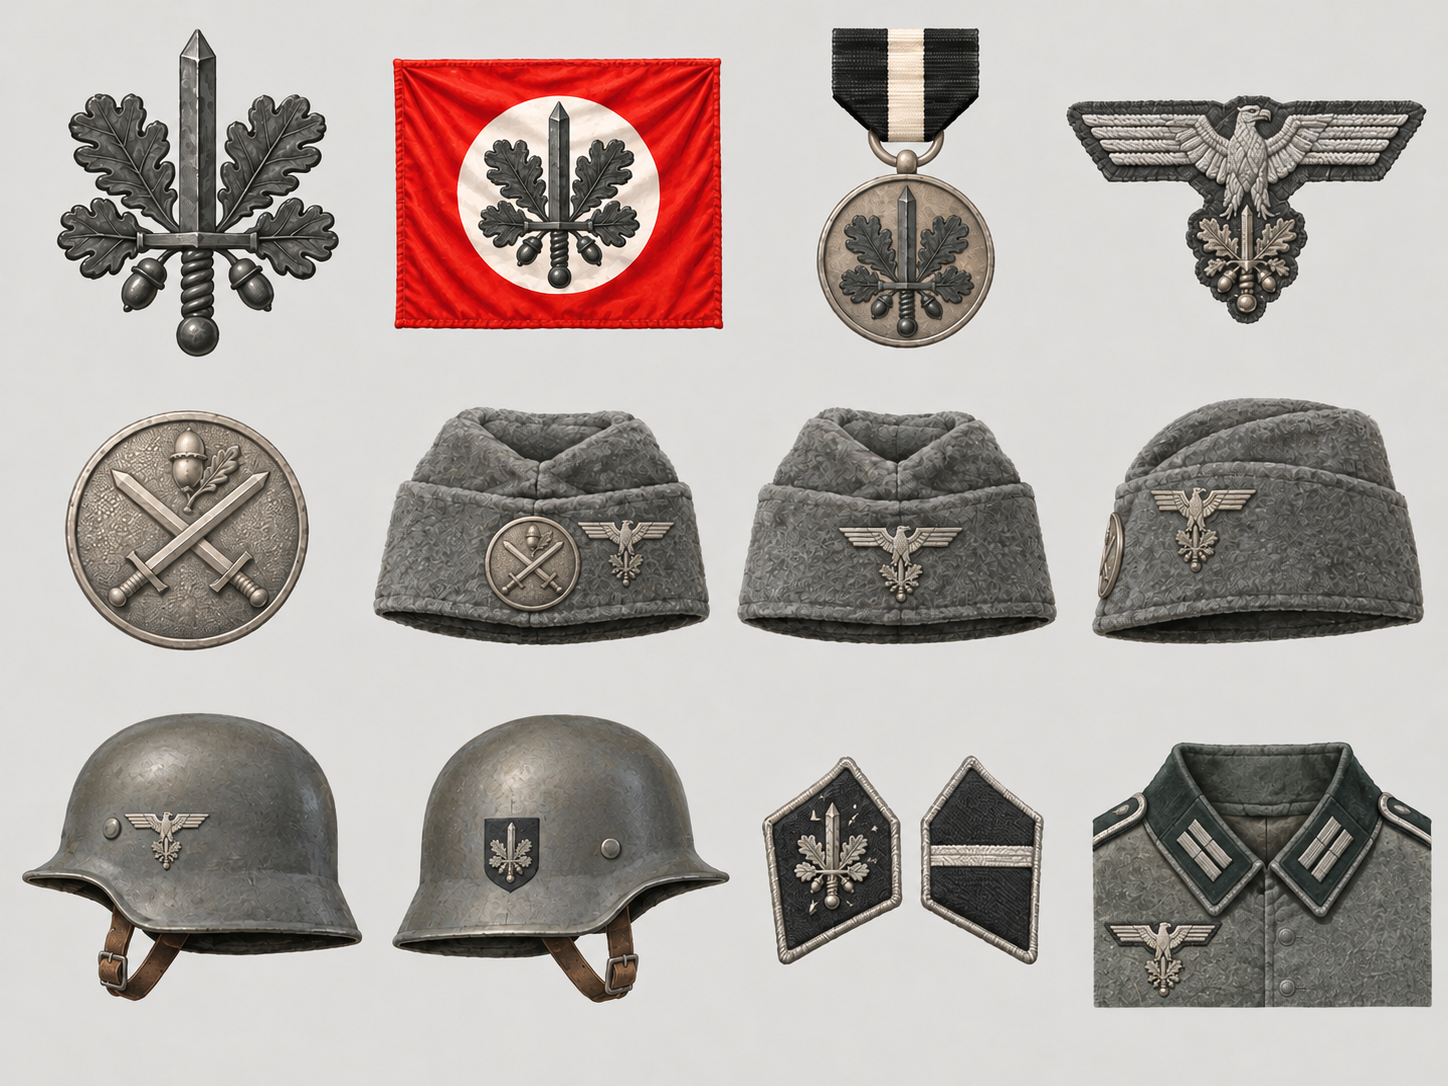
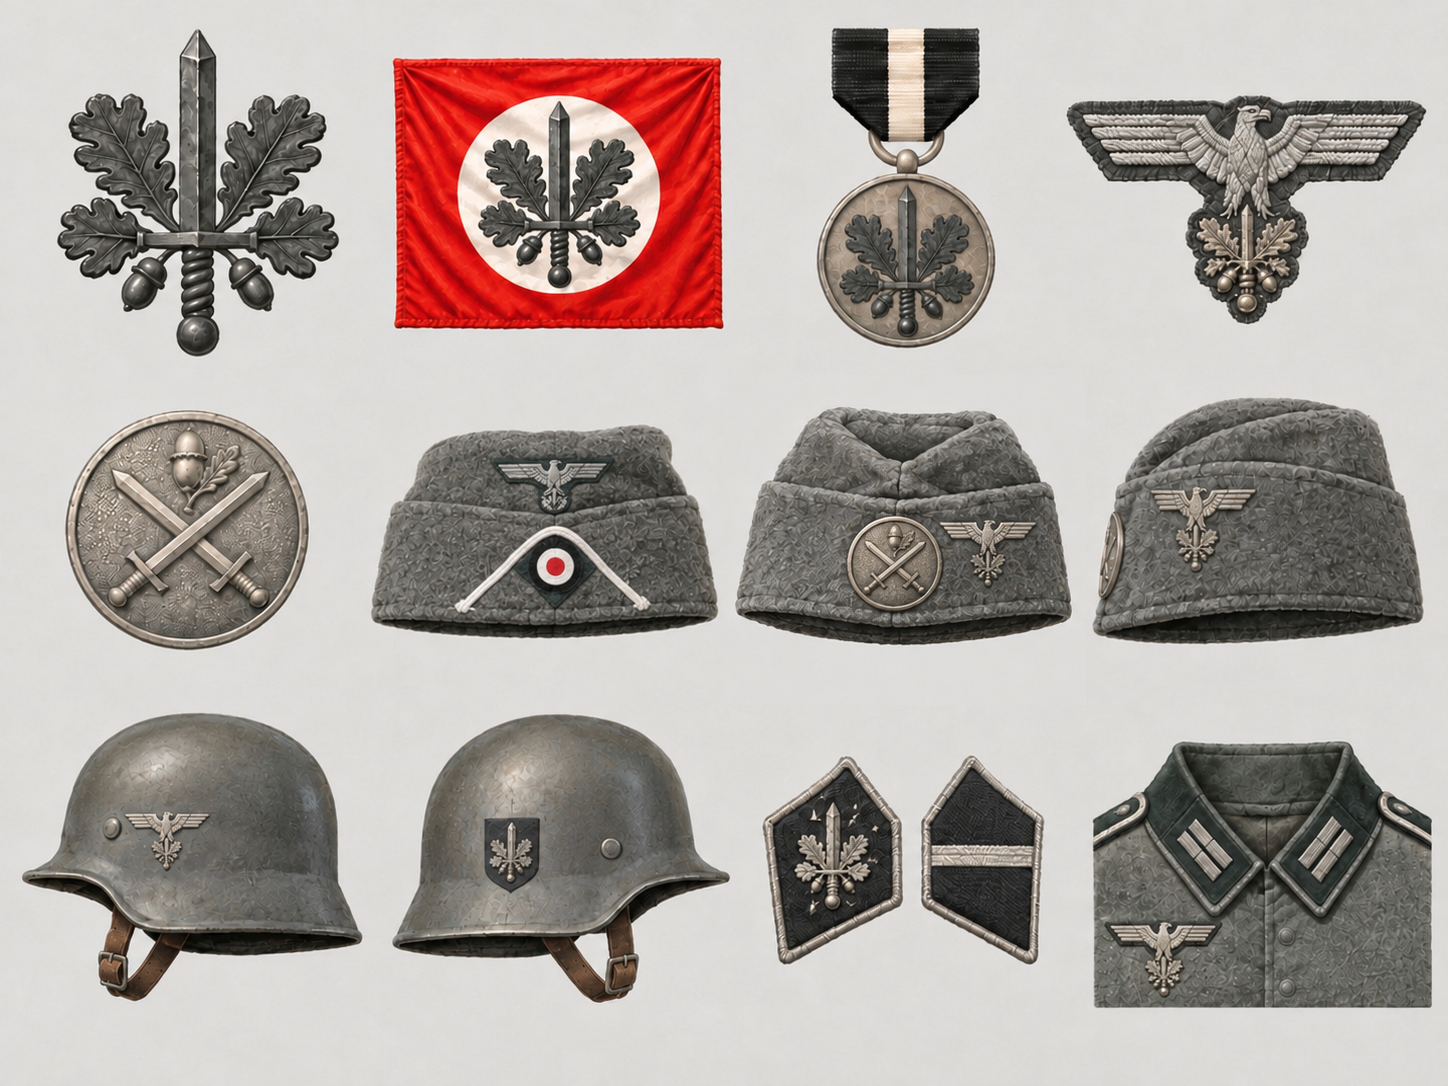
Emblem sheet: 1939 Army side cap with cockade and soutache
Claude-Session: https://claude.ai/code/session_01FPxW8otRVdngYhnkrH8mAQ

diff --git a/CLAUDE.md b/CLAUDE.md
@@ -40,8 +40,8 @@
     WEARER'S LEFT patch. In a portrait facing the viewer the wearer's left is the RIGHT HALF OF THE
     PICTURE. Rule of thumb: rank patch, cap eagle and helmet eagle all in the RIGHT half of the picture;
     the collar emblem and the Army breast eagle in the LEFT half. (The sheet now has TWELVE pictures in three rows:
-    emblem, flag, medal, breast eagle / cap badge, CAP ONE (eagle in the right half), CAP TWO, CAP ONE
-    from the side / ARMY HELMET (visor to the left, eagle), SECOND HELMET (visor to the right, emblem on a
+    emblem, flag, medal, breast eagle / cap badge, CAP TWO (ARMY 1939: eagle above a red-white-black
+    cockade inside a white inverted V), CAP ONE (Waffen-SS: badge and eagle), CAP ONE from the side / ARMY HELMET (visor to the left, eagle), SECOND HELMET (visor to the right, emblem on a
     black shield, the Waffen-SS helmet), COLLAR ONE (two loose black patches), COLLAR TWO (Army). Still
     state every side in words; text outweighs the sheet. Portraits made before
     Nov 2026 have the cap/helmet eagle mirrored; the owner chose to keep them.)
@@ -69,8 +69,10 @@
     almost straight on so both collar patches are fully visible (keep hands low). For the cap: "in the
     RIGHT HALF of the picture, just beside this badge, a smaller silver eagle". Mirroring a finished image
     does not fix it, because it moves the cap eagle too.
-  - Army side cap: "exactly like CAP TWO (ONLY EAGLE) in the attached emblem-sheet.png: only a small
-    silver-grey eagle, exactly in the CENTRE of the front of the cap, and no other badge".
+  - Army side cap 1939–42 (M34 Feldmütze): "exactly like CAP TWO (EAGLE ABOVE COCKADE) in the attached
+    emblem-sheet.png: centred on the front, a small grey eagle holding only the sword-and-oak-leaves emblem,
+    and below it a small round red-white-black cockade inside an upside-down V of thin white braid".
+    For 1943 caps without the cockade: "only a small grey eagle, centred on the front, no other badge".
   - Army steel helmet: "exactly like the HELMET in the attached emblem-sheet.png: a small silver-grey
     eagle decal on the side of the helmet that is in the RIGHT HALF of the picture, nothing else".
     Waffen-SS steel helmet: "like the SECOND HELMET in the attached emblem-sheet.png: a small decal of the
